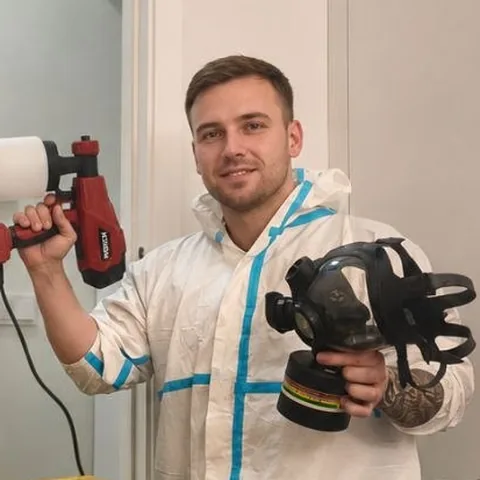
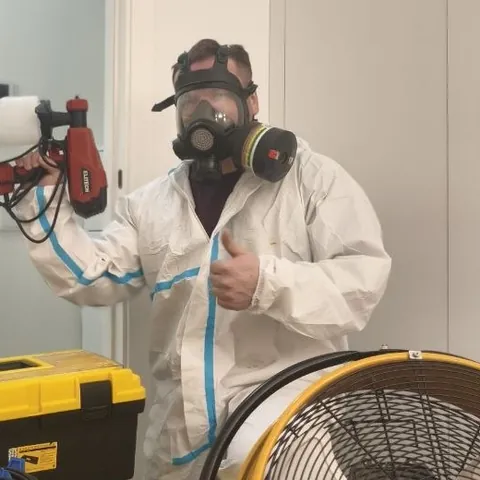
services slider fix + new team img

diff --git a/source/js/main.min.js b/source/js/main.min.js
@@ -1,1 +1,1 @@
-document.addEventListener("DOMContentLoaded",function(){var e=document.querySelector(".header"),t=document.querySelector(".header__burger");if(t){function n(){e.classList.remove("is-nav-open"),document.body.classList.remove("modal-open")}t.addEventListener("click",function(){var t=e.classList.toggle("is-nav-open");document.body.classList.toggle("modal-open",t)}),document.querySelectorAll(".nav__link, .nav__submenu-link").forEach(function(e){e.addEventListener("click",n)}),document.addEventListener("keydown",function(t){"Escape"===t.key&&e.classList.contains("is-nav-open")&&n()})}function o(){return(e?e.getBoundingClientRect().height:0)+12}function i(e){var t=document.documentElement,n=t.style.scrollBehavior;t.style.scrollBehavior="auto",window.scrollTo(0,e<0?0:e),t.style.scrollBehavior=n}document.querySelectorAll(".nav__item--dropdown").forEach(function(e){e.querySelector(".nav__toggle").addEventListener("click",function(){var t=e.classList.contains("is-open");document.querySelectorAll(".nav__item--dropdown").forEach(function(e){e.classList.remove("is-open")}),t||e.classList.add("is-open")})}),document.addEventListener("click",function(e){e.target.closest(".nav__item--dropdown")||document.querySelectorAll(".nav__item--dropdown").forEach(function(e){e.classList.remove("is-open")})});var r=window.matchMedia&&window.matchMedia("(prefers-reduced-motion: reduce)").matches;function a(e,t){var n=window.pageYOffset+e.getBoundingClientRect().top-o();if(n<0&&(n=0),!t||r)return i(n),void c(e);var a=null,s=setTimeout(l,600);function l(){clearTimeout(a),clearTimeout(s),window.removeEventListener("scroll",u),c(e)}function u(){clearTimeout(s),clearTimeout(a),a=setTimeout(l,140)}window.addEventListener("scroll",u,{passive:!0}),window.scrollTo({top:n,behavior:"smooth"})}function c(e){var t=0;!function n(){var r=e.getBoundingClientRect().top-o();Math.abs(r)>2&&i(window.pageYOffset+r),++t<8&&setTimeout(n,150)}()}if(document.addEventListener("click",function(e){var t=e.target.closest?e.target.closest('a[href*="#"]'):null;if(t&&!t.classList.contains("js-order-open")){var n;try{n=new URL(t.getAttribute("href"),location.href)}catch(e){return}if(function(e){return e.host===location.host&&e.pathname.replace(/index\.php$/,"")===location.pathname.replace(/index\.php$/,"")}(n)&&!(n.hash.length<2)){var o=document.getElementById(decodeURIComponent(n.hash.slice(1)));o&&(e.preventDefault(),history.replaceState&&history.pushState(null,"",n.hash),a(o,!0))}}}),location.hash.length>1){var s=document.getElementById(decodeURIComponent(location.hash.slice(1)));s&&window.addEventListener("load",function(){setTimeout(function(){a(s,!1)},60)})}document.querySelectorAll(".faq-item__question").forEach(function(e){e.addEventListener("click",function(){e.closest(".faq-item").classList.toggle("is-open")})}),document.querySelectorAll("input[type=tel]").forEach(function(e){e.addEventListener("input",function(){e.value=function(e){var t=e.replace(/\D/g,"");"8"===t[0]&&(t="7"+t.slice(1)),"7"!==t[0]&&(t="7"+t);var n="+7";return(t=t.slice(0,11)).length>1&&(n+=" ("+t.slice(1,4)),t.length>=4&&(n+=") "+t.slice(4,7)),t.length>=7&&(n+="-"+t.slice(7,9)),t.length>=9&&(n+="-"+t.slice(9,11)),n}(e.value)}),e.addEventListener("focus",function(){e.value||(e.value="+7 (")}),e.addEventListener("blur",function(){"+7 ("!==e.value&&"+7"!==e.value||(e.value="")})}),document.querySelectorAll("input[name=name]").forEach(function(e){e.addEventListener("input",function(){e.value=e.value.replace(/[^A-Za-zА-Яа-яЁё\s]/g,"")})});var l=document.getElementById("geo-ask"),u=l&&l.dataset.base||"";function d(){return-1===u.indexOf(".")||/^[\d.]+$/.test(u)?"":"; domain=."+u}function f(e){var t=document.cookie.match(new RegExp("(?:^|; )"+e+"=([^;]*)"));return t?decodeURIComponent(t[1]):""}function m(e,t,n){document.cookie=e+"="+encodeURIComponent(t)+"; path=/; max-age="+86400*n+d()+"; samesite=lax"}var v="dh_track",h=["utm_source","utm_medium","utm_campaign","utm_content","utm_term","gclid","yclid","fbclid"],p=function(){var e={};try{e=JSON.parse(f(v))||{}}catch(t){e={}}if(e.landing)return e;var t=new URLSearchParams(location.search),n={};h.forEach(function(e){var o=t.get(e);o&&(n[e]=o.slice(0,300))}),n.landing=(location.origin+location.pathname+location.search).slice(0,500);var o=document.referrer||"";if(o){var i="";try{i=new URL(o).hostname}catch(e){i=""}var r=i===location.hostname||""!==u&&i.slice(-u.length)===u;i&&!r&&(n.referrer=o.slice(0,500))}return m(v,JSON.stringify(n),90),n}();function g(e,t,n){e&&(e.textContent=t,e.className="form-status"+(n?" is-"+n:""))}if(document.querySelectorAll(".js-form").forEach(function(e){e.setAttribute("novalidate","novalidate"),e.addEventListener("submit",function(t){t.preventDefault();var n=e.querySelector("input[name=name]"),o=e.querySelector("input[type=tel]"),i=e.querySelector(".form-status"),r=o?o.value.replace(/\D/g,""):"",a=e.querySelector("input[name=name_optional]");if(n&&!a&&""===n.value.trim())return g(i,"Введите ваше имя","error"),void n.focus();if(11!==r.length)return g(i,"Введите корректный телефон","error"),void(o&&o.focus());var c=e.querySelector("input[name=consent]");if(!c||c.checked){var s=e.querySelector("button[type=submit]");s&&(s.disabled=!0),g(i,"Отправляем…","");var l=new FormData(e);Object.keys(p).forEach(function(e){l.append(e,p[e])}),l.append("page",location.href),document.body.dataset.service&&l.append("service",document.body.dataset.service);var u=f("_ym_uid");u&&l.append("_ym_uid",u),fetch(e.action,{method:"POST",body:l}).then(function(e){return e.json()}).then(function(t){t.ok?(g(i,"Заявка отправлена! Мы перезвоним вам.","success"),e.reset(),e.dispatchEvent(new CustomEvent("form:sent"))):g(i,"Не удалось отправить. Позвоните нам, пожалуйста.","error")}).catch(function(){g(i,"Ошибка сети. Попробуйте позже.","error")}).finally(function(){s&&(s.disabled=!1)})}else g(i,"Подтвердите согласие на обработку данных","error")})}),p=document.querySelector(".reviews__track")){var y=p.closest(".reviews__carousel"),L=function(){var e=p.querySelector(".review-card");if(!e)return p.clientWidth;var t=parseInt(getComputedStyle(p).columnGap||getComputedStyle(p).gap||"20",10);return e.offsetWidth+(isNaN(t)?20:t)};y.querySelectorAll(".reviews__btn").forEach(function(e){e.addEventListener("click",function(){var t="prev"===e.dataset.dir?-1:1;p.scrollBy({left:t*L(),behavior:"smooth"})})})}var E=document.getElementById("order-modal");if(E){function S(){E.classList.remove("is-open"),E.setAttribute("aria-hidden","true"),document.body.classList.remove("modal-open")}document.querySelectorAll(".js-order-open").forEach(function(e){e.addEventListener("click",function(e){e.preventDefault(),function(){E.classList.add("is-open"),E.setAttribute("aria-hidden","false"),document.body.classList.add("modal-open");var e=E.querySelector("input[name=name]");e&&e.focus()}()})}),E.querySelectorAll("[data-modal-close]").forEach(function(e){e.addEventListener("click",S)}),document.addEventListener("keydown",function(e){"Escape"===e.key&&E.classList.contains("is-open")&&S()})}function q(e,t,n){var o=document.querySelector(e);if(o){var i=o.parentElement,r=parseInt(o.dataset.clone,10),a=parseInt(o.dataset.real,10);l(r),window.addEventListener("resize",function(){l(r)});var c=null;o.addEventListener("scroll",function(){clearTimeout(c),c=setTimeout(function(){var e=Math.round(o.scrollLeft/s());e<r?l(e+a):e>=r+a&&l(e-a)},120)},{passive:!0}),i.querySelectorAll(n).forEach(function(e){e.addEventListener("click",function(){var t="prev"===e.dataset.dir?-1:1;o.scrollBy({left:t*s(),behavior:"smooth"})})})}function s(){var e=o.querySelector(t);if(!e)return o.clientWidth;var n=parseInt(getComputedStyle(o).columnGap||getComputedStyle(o).gap||"20",10);return e.offsetWidth+(isNaN(n)?20:n)}function l(e){o.style.scrollBehavior="auto",o.scrollLeft=e*s(),o.style.scrollBehavior=""}}q(".js-srv-track",".srv-card",".srv__btn"),q(".js-certs-track",".cert-card",".certs__btn"),q(".js-gal-track",".gal__item",".gal__btn"),q(".js-works-track",".work-card",".works__btn");var _=document.getElementById("cert-lightbox");if(_){var b=_.querySelector(".lightbox__img");function w(e,t){b.src=e,b.alt=t||"",_.classList.add("is-open"),_.setAttribute("aria-hidden","false"),document.body.classList.add("modal-open")}function k(){_.classList.remove("is-open"),_.setAttribute("aria-hidden","true"),document.body.classList.remove("modal-open"),b.src=""}document.querySelectorAll(".js-cert-open").forEach(function(e){e.addEventListener("click",function(){var t=e.dataset.cert;w("/source/img/certificate/cert_"+t+"_full.webp","Сертификат №"+t)})}),document.querySelectorAll(".js-lightbox").forEach(function(e){e.addEventListener("click",function(){w(e.dataset.lightboxSrc,e.dataset.lightboxAlt)})}),_.querySelectorAll("[data-modal-close]").forEach(function(e){e.addEventListener("click",k)}),document.addEventListener("keydown",function(e){"Escape"===e.key&&_.classList.contains("is-open")&&k()})}var A=document.querySelector(".fab--top");if(A){function x(){window.scrollY>window.innerHeight?A.classList.add("is-visible"):A.classList.remove("is-visible")}window.addEventListener("scroll",x,{passive:!0}),x(),A.addEventListener("click",function(){window.scrollTo({top:0,behavior:"smooth"})})}var j=document.querySelector(".js-cities"),C=j?j.querySelector(".js-cities-toggle"):null;C&&C.addEventListener("click",function(){var e=j.classList.toggle("is-open");if(C.textContent=e?C.dataset.less:C.dataset.more,C.setAttribute("aria-expanded",e?"true":"false"),!e){var t=j.closest(".section");t&&t.getBoundingClientRect().top<0&&a(t,!1)}});var B=document.querySelector(".js-collapse"),I=document.querySelector(".js-collapse-toggle");if(B&&I){var T=!1;function O(){B.style.maxHeight=T?B.scrollHeight+"px":"0px",B.classList.toggle("is-open",T),I.textContent=T?I.dataset.less:I.dataset.more,I.setAttribute("aria-expanded",T?"true":"false")}O(),I.addEventListener("click",function(){T=!T,O()}),window.addEventListener("resize",function(){T&&(B.style.maxHeight=B.scrollHeight+"px")}),B.addEventListener("transitionend",function(e){"max-height"===e.propertyName&&T&&(B.style.maxHeight="none")})}var z=document.querySelector(".js-quiz");if(z){var N=z.querySelectorAll(".quiz__step"),R=z.querySelector(".js-quiz-back"),M=z.querySelector(".js-quiz-next"),D=z.querySelector(".js-quiz-label"),U=z.querySelector(".js-quiz-percent"),H=z.querySelector(".js-quiz-fill"),W=z.querySelector(".js-quiz-final-label").textContent,$=D.textContent,F=0;function P(e){return N[e].classList.contains("quiz__step--final")}function V(e){return null!==N[e].querySelector("input:checked")}function Y(){N.forEach(function(e,t){e.classList.toggle("is-active",t===F)});var e=N[F].dataset.percent;U.textContent=e+"%",H.style.width=e+"%";var t=P(F);D.textContent=t?W:$,U.hidden=t,R.classList.toggle("is-visible",F>0),M.classList.toggle("is-hidden",t),M.disabled=!t&&!V(F)}z.addEventListener("change",function(){P(F)||(M.disabled=!V(F))}),M.addEventListener("click",function(){F<N.length-1&&(F++,Y())}),R.addEventListener("click",function(){F>0&&(F--,Y())}),z.addEventListener("form:sent",function(){setTimeout(function(){var e=z.querySelector(".form-status");e&&(e.textContent="",e.className="form-status"),F=0,Y()},3e3)}),Y()}var G=document.querySelectorAll(".stats__num");if(G.length){var J=window.matchMedia("(prefers-reduced-motion: reduce)").matches;var Z=new WeakSet,K=new IntersectionObserver(function(e){e.forEach(function(e){e.isIntersecting&&!Z.has(e.target)&&(Z.add(e.target),function(e){var t,n,o=(t=e.dataset.count,(n=t.match(/^(\d+)\s*[–-]\s*(\d+)$/))?{range:!0,a:+n[1],b:+n[2],sep:t.indexOf("–")>-1?"–":"-"}:{range:!1,a:+t});if(J)e.textContent=e.dataset.count;else{var i=null;requestAnimationFrame(function t(n){null===i&&(i=n);var r=Math.min((n-i)/1600,1),a=1-Math.pow(1-r,3);e.textContent=o.range?Math.round(o.a*a)+o.sep+Math.round(o.b*a):Math.round(o.a*a),r<1&&requestAnimationFrame(t)})}}(e.target),K.unobserve(e.target))})},{threshold:.4});G.forEach(function(e){K.observe(e)})}var Q=document.getElementById("geo-ask"),X=document.getElementById("city-picker");if(Q&&X){var ee=Q.dataset.slug,te="dh_city",ne="dh_city_ok";function oe(){f(ne)||(Q.hidden=!1,setTimeout(function(){Q.classList.add("is-open")},20))}function ie(){Q.classList.remove("is-open"),setTimeout(function(){Q.hidden=!0},250)}Q.querySelector(".js-geo-yes").addEventListener("click",function(){m(ne,"1",180),m(te,ee,180),ie()}),Q.querySelector(".js-geo-no").addEventListener("click",function(){ie(),X.classList.add("is-open"),X.setAttribute("aria-hidden","false"),document.body.classList.add("modal-open"),window.innerWidth>768&&re.focus()}),Q.querySelector("[data-geo-close]").addEventListener("click",function(){document.cookie=ne+"=1; path=/"+d()+"; samesite=lax",ie()});var re=X.querySelector(".js-city-search"),ae=X.querySelectorAll(".city-picker__item"),ce=X.querySelector(".js-city-empty");function se(){X.classList.remove("is-open"),X.setAttribute("aria-hidden","true"),document.body.classList.remove("modal-open")}function le(e){return e.toLowerCase().replace(/ё/g,"е").trim()}function ue(e){fetch("/source/php/detect.php"+e,{headers:{Accept:"application/json"}}).then(function(e){return e.json()}).then(function(e){m(te,e.slug||ee,30),e.ok&&e.slug&&e.slug!==ee&&e.origin?location.replace(e.origin+location.pathname+location.search):oe()}).catch(function(){oe()})}X.querySelectorAll("[data-picker-close]").forEach(function(e){e.addEventListener("click",se)}),document.addEventListener("keydown",function(e){"Escape"===e.key&&X.classList.contains("is-open")&&se()}),re.addEventListener("input",function(){var e=le(re.value),t=0;ae.forEach(function(n){var o=""===e||-1!==le(n.dataset.name).indexOf(e);n.hidden=!o,o&&t++}),ce.hidden=t>0}),document.querySelectorAll(".js-city-choose, .cities__link").forEach(function(e){e.addEventListener("click",function(){m(ne,"1",180),m(te,e.dataset.slug||"",180)})}),f(te)?oe():navigator.geolocation?navigator.geolocation.getCurrentPosition(function(e){ue("?lat="+e.coords.latitude+"&lon="+e.coords.longitude)},function(){ue("")},{timeout:8e3,maximumAge:6e5}):ue("")}});var NO_SAVE="img, picture, video";document.addEventListener("contextmenu",function(e){e.target&&e.target.closest&&e.target.closest(NO_SAVE)&&e.preventDefault()}),document.addEventListener("dragstart",function(e){e.target&&e.target.closest&&e.target.closest(NO_SAVE)&&e.preventDefault()});
+document.addEventListener("DOMContentLoaded",function(){var e=document.querySelector(".header"),t=document.querySelector(".header__burger");if(t){function n(){e.classList.remove("is-nav-open"),document.body.classList.remove("modal-open")}t.addEventListener("click",function(){var t=e.classList.toggle("is-nav-open");document.body.classList.toggle("modal-open",t)}),document.querySelectorAll(".nav__link, .nav__submenu-link").forEach(function(e){e.addEventListener("click",n)}),document.addEventListener("keydown",function(t){"Escape"===t.key&&e.classList.contains("is-nav-open")&&n()})}function o(){return(e?e.getBoundingClientRect().height:0)+12}function i(e){var t=document.documentElement,n=t.style.scrollBehavior;t.style.scrollBehavior="auto",window.scrollTo(0,e<0?0:e),t.style.scrollBehavior=n}document.querySelectorAll(".nav__item--dropdown").forEach(function(e){e.querySelector(".nav__toggle").addEventListener("click",function(){var t=e.classList.contains("is-open");document.querySelectorAll(".nav__item--dropdown").forEach(function(e){e.classList.remove("is-open")}),t||e.classList.add("is-open")})}),document.addEventListener("click",function(e){e.target.closest(".nav__item--dropdown")||document.querySelectorAll(".nav__item--dropdown").forEach(function(e){e.classList.remove("is-open")})});var r=window.matchMedia&&window.matchMedia("(prefers-reduced-motion: reduce)").matches;function a(e,t){var n=window.pageYOffset+e.getBoundingClientRect().top-o();if(n<0&&(n=0),!t||r)return i(n),void c(e);var a=null,s=setTimeout(l,600);function l(){clearTimeout(a),clearTimeout(s),window.removeEventListener("scroll",u),c(e)}function u(){clearTimeout(s),clearTimeout(a),a=setTimeout(l,140)}window.addEventListener("scroll",u,{passive:!0}),window.scrollTo({top:n,behavior:"smooth"})}function c(e){var t=0;!function n(){var r=e.getBoundingClientRect().top-o();Math.abs(r)>2&&i(window.pageYOffset+r),++t<8&&setTimeout(n,150)}()}if(document.addEventListener("click",function(e){var t=e.target.closest?e.target.closest('a[href*="#"]'):null;if(t&&!t.classList.contains("js-order-open")){var n;try{n=new URL(t.getAttribute("href"),location.href)}catch(e){return}if(function(e){return e.host===location.host&&e.pathname.replace(/index\.php$/,"")===location.pathname.replace(/index\.php$/,"")}(n)&&!(n.hash.length<2)){var o=document.getElementById(decodeURIComponent(n.hash.slice(1)));o&&(e.preventDefault(),history.replaceState&&history.pushState(null,"",n.hash),a(o,!0))}}}),location.hash.length>1){var s=document.getElementById(decodeURIComponent(location.hash.slice(1)));s&&window.addEventListener("load",function(){setTimeout(function(){a(s,!1)},60)})}document.querySelectorAll(".faq-item__question").forEach(function(e){e.addEventListener("click",function(){e.closest(".faq-item").classList.toggle("is-open")})}),document.querySelectorAll("input[type=tel]").forEach(function(e){e.addEventListener("input",function(){e.value=function(e){var t=e.replace(/\D/g,"");"8"===t[0]&&(t="7"+t.slice(1)),"7"!==t[0]&&(t="7"+t);var n="+7";return(t=t.slice(0,11)).length>1&&(n+=" ("+t.slice(1,4)),t.length>=4&&(n+=") "+t.slice(4,7)),t.length>=7&&(n+="-"+t.slice(7,9)),t.length>=9&&(n+="-"+t.slice(9,11)),n}(e.value)}),e.addEventListener("focus",function(){e.value||(e.value="+7 (")}),e.addEventListener("blur",function(){"+7 ("!==e.value&&"+7"!==e.value||(e.value="")})}),document.querySelectorAll("input[name=name]").forEach(function(e){e.addEventListener("input",function(){e.value=e.value.replace(/[^A-Za-zА-Яа-яЁё\s]/g,"")})});var l=document.getElementById("geo-ask"),u=l&&l.dataset.base||"";function d(){return-1===u.indexOf(".")||/^[\d.]+$/.test(u)?"":"; domain=."+u}function f(e){var t=document.cookie.match(new RegExp("(?:^|; )"+e+"=([^;]*)"));return t?decodeURIComponent(t[1]):""}function m(e,t,n){document.cookie=e+"="+encodeURIComponent(t)+"; path=/; max-age="+86400*n+d()+"; samesite=lax"}var v="dh_track",h=["utm_source","utm_medium","utm_campaign","utm_content","utm_term","gclid","yclid","fbclid"],p=function(){var e={};try{e=JSON.parse(f(v))||{}}catch(t){e={}}if(e.landing)return e;var t=new URLSearchParams(location.search),n={};h.forEach(function(e){var o=t.get(e);o&&(n[e]=o.slice(0,300))}),n.landing=(location.origin+location.pathname+location.search).slice(0,500);var o=document.referrer||"";if(o){var i="";try{i=new URL(o).hostname}catch(e){i=""}var r=i===location.hostname||""!==u&&i.slice(-u.length)===u;i&&!r&&(n.referrer=o.slice(0,500))}return m(v,JSON.stringify(n),90),n}();function g(e,t,n){e&&(e.textContent=t,e.className="form-status"+(n?" is-"+n:""))}if(document.querySelectorAll(".js-form").forEach(function(e){e.setAttribute("novalidate","novalidate"),e.addEventListener("submit",function(t){t.preventDefault();var n=e.querySelector("input[name=name]"),o=e.querySelector("input[type=tel]"),i=e.querySelector(".form-status"),r=o?o.value.replace(/\D/g,""):"",a=e.querySelector("input[name=name_optional]");if(n&&!a&&""===n.value.trim())return g(i,"Введите ваше имя","error"),void n.focus();if(11!==r.length)return g(i,"Введите корректный телефон","error"),void(o&&o.focus());var c=e.querySelector("input[name=consent]");if(!c||c.checked){var s=e.querySelector("button[type=submit]");s&&(s.disabled=!0),g(i,"Отправляем…","");var l=new FormData(e);Object.keys(p).forEach(function(e){l.append(e,p[e])}),l.append("page",location.href),document.body.dataset.service&&l.append("service",document.body.dataset.service);var u=f("_ym_uid");u&&l.append("_ym_uid",u),fetch(e.action,{method:"POST",body:l}).then(function(e){return e.json()}).then(function(t){t.ok?(g(i,"Заявка отправлена! Мы перезвоним вам.","success"),e.reset(),e.dispatchEvent(new CustomEvent("form:sent"))):g(i,"Не удалось отправить. Позвоните нам, пожалуйста.","error")}).catch(function(){g(i,"Ошибка сети. Попробуйте позже.","error")}).finally(function(){s&&(s.disabled=!1)})}else g(i,"Подтвердите согласие на обработку данных","error")})}),p=document.querySelector(".reviews__track")){var y=p.closest(".reviews__carousel"),E=function(){var e=p.querySelector(".review-card");if(!e)return p.clientWidth;var t=parseInt(getComputedStyle(p).columnGap||getComputedStyle(p).gap||"20",10);return e.offsetWidth+(isNaN(t)?20:t)};y.querySelectorAll(".reviews__btn").forEach(function(e){e.addEventListener("click",function(){var t="prev"===e.dataset.dir?-1:1;p.scrollBy({left:t*E(),behavior:"smooth"})})})}var L=document.getElementById("order-modal");if(L){function S(){L.classList.remove("is-open"),L.setAttribute("aria-hidden","true"),document.body.classList.remove("modal-open")}document.querySelectorAll(".js-order-open").forEach(function(e){e.addEventListener("click",function(e){e.preventDefault(),function(){L.classList.add("is-open"),L.setAttribute("aria-hidden","false"),document.body.classList.add("modal-open");var e=L.querySelector("input[name=name]");e&&e.focus()}()})}),L.querySelectorAll("[data-modal-close]").forEach(function(e){e.addEventListener("click",S)}),document.addEventListener("keydown",function(e){"Escape"===e.key&&L.classList.contains("is-open")&&S()})}function q(e,t,n){var o=document.querySelector(e);if(o){var i=o.parentElement,r=parseInt(o.dataset.clone,10),a=parseInt(o.dataset.real,10),c=r;f(r);var s=window.innerWidth;window.addEventListener("resize",function(){window.innerWidth!==s&&(s=window.innerWidth,f(c))});var l=null;o.addEventListener("scroll",m,{passive:!0});var u=!1;o.addEventListener("touchstart",function(){u=!0},{passive:!0}),["touchend","touchcancel"].forEach(function(e){o.addEventListener(e,function(){u=!1,m()},{passive:!0})}),i.querySelectorAll(n).forEach(function(e){e.addEventListener("click",function(){var t="prev"===e.dataset.dir?-1:1;o.scrollBy({left:t*d(),behavior:"smooth"})})})}function d(){var e=o.querySelector(t);if(!e)return o.clientWidth;var n=parseInt(getComputedStyle(o).columnGap||getComputedStyle(o).gap||"20",10);return e.offsetWidth+(isNaN(n)?20:n)}function f(e){c=e,o.style.scrollSnapType="none",o.style.scrollBehavior="auto",o.scrollLeft=e*d(),o.getBoundingClientRect(),o.style.scrollSnapType="",o.style.scrollBehavior=""}function m(){clearTimeout(l),l=setTimeout(function(){if(u)m();else{var e=Math.round(o.scrollLeft/d());c=e,e<r?f(e+a):e>=r+a&&f(e-a)}},160)}}q(".js-srv-track",".srv-card",".srv__btn"),q(".js-certs-track",".cert-card",".certs__btn"),q(".js-gal-track",".gal__item",".gal__btn"),q(".js-works-track",".work-card",".works__btn");var w=document.getElementById("cert-lightbox");if(w){var _=w.querySelector(".lightbox__img");function b(e,t){_.src=e,_.alt=t||"",w.classList.add("is-open"),w.setAttribute("aria-hidden","false"),document.body.classList.add("modal-open")}function k(){w.classList.remove("is-open"),w.setAttribute("aria-hidden","true"),document.body.classList.remove("modal-open"),_.src=""}document.querySelectorAll(".js-cert-open").forEach(function(e){e.addEventListener("click",function(){var t=e.dataset.cert;b("/source/img/certificate/cert_"+t+"_full.webp","Сертификат №"+t)})}),document.querySelectorAll(".js-lightbox").forEach(function(e){e.addEventListener("click",function(){b(e.dataset.lightboxSrc,e.dataset.lightboxAlt)})}),w.querySelectorAll("[data-modal-close]").forEach(function(e){e.addEventListener("click",k)}),document.addEventListener("keydown",function(e){"Escape"===e.key&&w.classList.contains("is-open")&&k()})}var A=document.querySelector(".fab--top");if(A){function x(){window.scrollY>window.innerHeight?A.classList.add("is-visible"):A.classList.remove("is-visible")}window.addEventListener("scroll",x,{passive:!0}),x(),A.addEventListener("click",function(){window.scrollTo({top:0,behavior:"smooth"})})}var j=document.querySelector(".js-cities"),C=j?j.querySelector(".js-cities-toggle"):null;C&&C.addEventListener("click",function(){var e=j.classList.toggle("is-open");if(C.textContent=e?C.dataset.less:C.dataset.more,C.setAttribute("aria-expanded",e?"true":"false"),!e){var t=j.closest(".section");t&&t.getBoundingClientRect().top<0&&a(t,!1)}});var B=document.querySelector(".js-collapse"),T=document.querySelector(".js-collapse-toggle");if(B&&T){var I=!1;function O(){B.style.maxHeight=I?B.scrollHeight+"px":"0px",B.classList.toggle("is-open",I),T.textContent=I?T.dataset.less:T.dataset.more,T.setAttribute("aria-expanded",I?"true":"false")}O(),T.addEventListener("click",function(){I=!I,O()}),window.addEventListener("resize",function(){I&&(B.style.maxHeight=B.scrollHeight+"px")}),B.addEventListener("transitionend",function(e){"max-height"===e.propertyName&&I&&(B.style.maxHeight="none")})}var R=document.querySelector(".js-quiz");if(R){var z=R.querySelectorAll(".quiz__step"),N=R.querySelector(".js-quiz-back"),M=R.querySelector(".js-quiz-next"),D=R.querySelector(".js-quiz-label"),W=R.querySelector(".js-quiz-percent"),U=R.querySelector(".js-quiz-fill"),H=R.querySelector(".js-quiz-final-label").textContent,$=D.textContent,F=0;function P(e){return z[e].classList.contains("quiz__step--final")}function V(e){return null!==z[e].querySelector("input:checked")}function Y(){z.forEach(function(e,t){e.classList.toggle("is-active",t===F)});var e=z[F].dataset.percent;W.textContent=e+"%",U.style.width=e+"%";var t=P(F);D.textContent=t?H:$,W.hidden=t,N.classList.toggle("is-visible",F>0),M.classList.toggle("is-hidden",t),M.disabled=!t&&!V(F)}R.addEventListener("change",function(){P(F)||(M.disabled=!V(F))}),M.addEventListener("click",function(){F<z.length-1&&(F++,Y())}),N.addEventListener("click",function(){F>0&&(F--,Y())}),R.addEventListener("form:sent",function(){setTimeout(function(){var e=R.querySelector(".form-status");e&&(e.textContent="",e.className="form-status"),F=0,Y()},3e3)}),Y()}var G=document.querySelectorAll(".stats__num");if(G.length){var J=window.matchMedia("(prefers-reduced-motion: reduce)").matches;var Z=new WeakSet,K=new IntersectionObserver(function(e){e.forEach(function(e){e.isIntersecting&&!Z.has(e.target)&&(Z.add(e.target),function(e){var t,n,o=(t=e.dataset.count,(n=t.match(/^(\d+)\s*[–-]\s*(\d+)$/))?{range:!0,a:+n[1],b:+n[2],sep:t.indexOf("–")>-1?"–":"-"}:{range:!1,a:+t});if(J)e.textContent=e.dataset.count;else{var i=null;requestAnimationFrame(function t(n){null===i&&(i=n);var r=Math.min((n-i)/1600,1),a=1-Math.pow(1-r,3);e.textContent=o.range?Math.round(o.a*a)+o.sep+Math.round(o.b*a):Math.round(o.a*a),r<1&&requestAnimationFrame(t)})}}(e.target),K.unobserve(e.target))})},{threshold:.4});G.forEach(function(e){K.observe(e)})}var Q=document.getElementById("geo-ask"),X=document.getElementById("city-picker");if(Q&&X){var ee=Q.dataset.slug,te="dh_city",ne="dh_city_ok";function oe(){f(ne)||(Q.hidden=!1,setTimeout(function(){Q.classList.add("is-open")},20))}function ie(){Q.classList.remove("is-open"),setTimeout(function(){Q.hidden=!0},250)}Q.querySelector(".js-geo-yes").addEventListener("click",function(){m(ne,"1",180),m(te,ee,180),ie()}),Q.querySelector(".js-geo-no").addEventListener("click",function(){ie(),X.classList.add("is-open"),X.setAttribute("aria-hidden","false"),document.body.classList.add("modal-open"),window.innerWidth>768&&re.focus()}),Q.querySelector("[data-geo-close]").addEventListener("click",function(){document.cookie=ne+"=1; path=/"+d()+"; samesite=lax",ie()});var re=X.querySelector(".js-city-search"),ae=X.querySelectorAll(".city-picker__item"),ce=X.querySelector(".js-city-empty");function se(){X.classList.remove("is-open"),X.setAttribute("aria-hidden","true"),document.body.classList.remove("modal-open")}function le(e){return e.toLowerCase().replace(/ё/g,"е").trim()}function ue(e){fetch("/source/php/detect.php"+e,{headers:{Accept:"application/json"}}).then(function(e){return e.json()}).then(function(e){m(te,e.slug||ee,30),e.ok&&e.slug&&e.slug!==ee&&e.origin?location.replace(e.origin+location.pathname+location.search):oe()}).catch(function(){oe()})}X.querySelectorAll("[data-picker-close]").forEach(function(e){e.addEventListener("click",se)}),document.addEventListener("keydown",function(e){"Escape"===e.key&&X.classList.contains("is-open")&&se()}),re.addEventListener("input",function(){var e=le(re.value),t=0;ae.forEach(function(n){var o=""===e||-1!==le(n.dataset.name).indexOf(e);n.hidden=!o,o&&t++}),ce.hidden=t>0}),document.querySelectorAll(".js-city-choose, .cities__link").forEach(function(e){e.addEventListener("click",function(){m(ne,"1",180),m(te,e.dataset.slug||"",180)})}),f(te)?oe():navigator.geolocation?navigator.geolocation.getCurrentPosition(function(e){ue("?lat="+e.coords.latitude+"&lon="+e.coords.longitude)},function(){ue("")},{timeout:8e3,maximumAge:6e5}):ue("")}});var NO_SAVE="img, picture, video";document.addEventListener("contextmenu",function(e){e.target&&e.target.closest&&e.target.closest(NO_SAVE)&&e.preventDefault()}),document.addEventListener("dragstart",function(e){e.target&&e.target.closest&&e.target.closest(NO_SAVE)&&e.preventDefault()});

diff --git a/source/js/main.js b/source/js/main.js
@@ -379,6 +379,7 @@ document.addEventListener("DOMContentLoaded", function () {
 		var carousel = track.parentElement;
 		var CLONE = parseInt(track.dataset.clone, 10); // клонов с каждой стороны
 		var REAL = parseInt(track.dataset.real, 10);   // реальных карточек
+		var index = CLONE;                             // текущая карточка в координатах трека
 
 		function step() {
 			var card = track.querySelector(cardSelector);
@@ -387,28 +388,52 @@ document.addEventListener("DOMContentLoaded", function () {
 			return card.offsetWidth + (isNaN(gap) ? 20 : gap);
 		}
 
-		// стартуем на первой настоящей карточке (после клонов слева), без анимации
-		function setPosition(index) {
+		// прыжок без анимации: snap на время выключаем, иначе браузер сам «доводит» позицию
+		function setPosition(i) {
+			index = i;
+			track.style.scrollSnapType = "none";
 			track.style.scrollBehavior = "auto";
-			track.scrollLeft = index * step();
+			track.scrollLeft = i * step();
+			track.getBoundingClientRect(); // форсим пересчёт, пока snap выключен
+			track.style.scrollSnapType = "";
 			track.style.scrollBehavior = "";
 		}
+
+		// стартуем на первой настоящей карточке (после клонов слева)
 		setPosition(CLONE);
-		window.addEventListener("resize", function () { setPosition(CLONE); });
+
+		// мобильные шлют resize, когда прячется адресная строка, то есть на каждой прокрутке
+		// страницы. Реагируем только на смену ширины и остаёмся на текущей карточке, а не в начале
+		var lastWidth = window.innerWidth;
+		window.addEventListener("resize", function () {
+			if (window.innerWidth === lastWidth) { return; }
+			lastWidth = window.innerWidth;
+			setPosition(index);
+		});
 
 		// после остановки скролла — если заехали в зону клонов, бесшовно телепортируем на реальную позицию
 		var settleTimer = null;
-		track.addEventListener("scroll", function () {
+		function settleLater() {
 			clearTimeout(settleTimer);
 			settleTimer = setTimeout(function () {
-				var index = Math.round(track.scrollLeft / step());
-				if (index < CLONE) {
-					setPosition(index + REAL);
-				} else if (index >= CLONE + REAL) {
-					setPosition(index - REAL);
+				// палец ещё на экране — ждём: прыжок под рукой ощущается как рывок через весь слайдер
+				if (touching) { settleLater(); return; }
+				var i = Math.round(track.scrollLeft / step());
+				index = i;
+				if (i < CLONE) {
+					setPosition(i + REAL);
+				} else if (i >= CLONE + REAL) {
+					setPosition(i - REAL);
 				}
-			}, 120);
-		}, { passive: true });
+			}, 160);
+		}
+		track.addEventListener("scroll", settleLater, { passive: true });
+
+		var touching = false;
+		track.addEventListener("touchstart", function () { touching = true; }, { passive: true });
+		["touchend", "touchcancel"].forEach(function (ev) {
+			track.addEventListener(ev, function () { touching = false; settleLater(); }, { passive: true });
+		});
 
 		carousel.querySelectorAll(btnSelector).forEach(function (btn) {
 			btn.addEventListener("click", function () {
